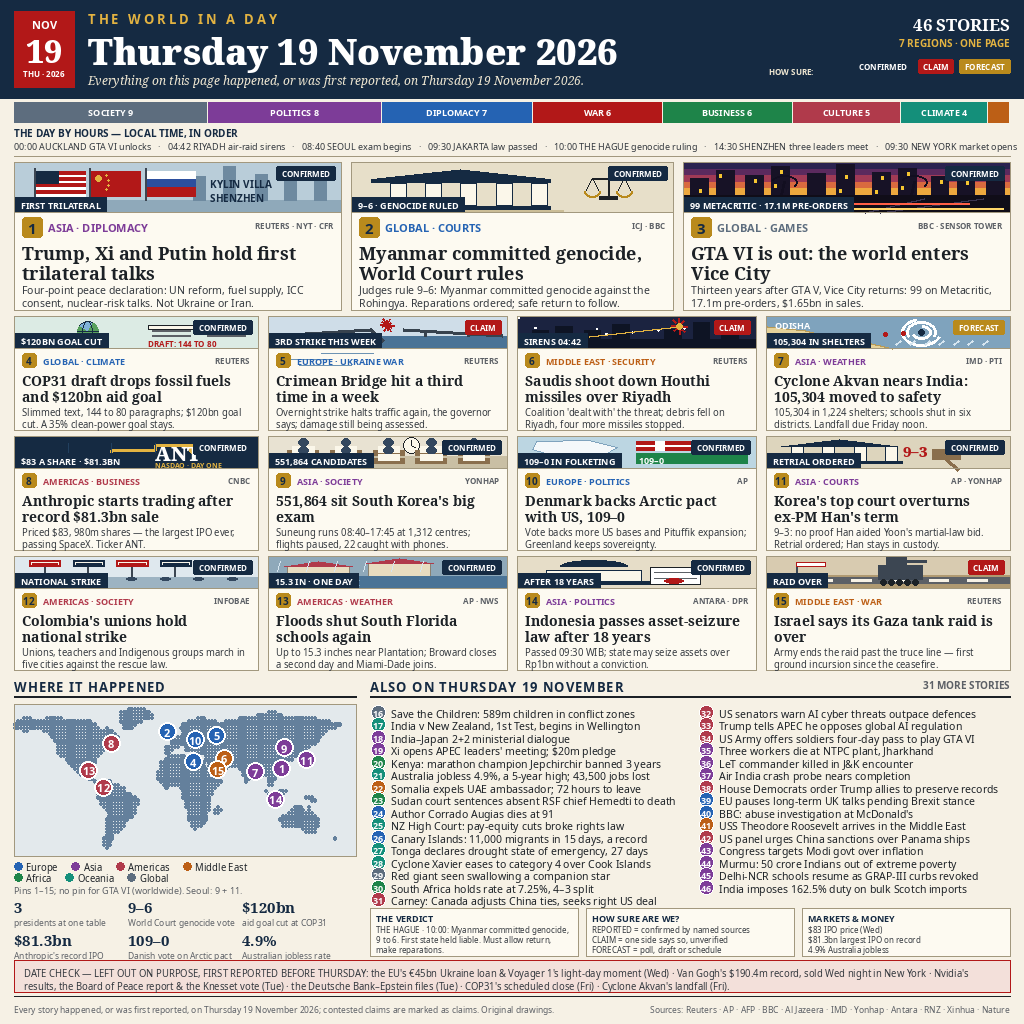
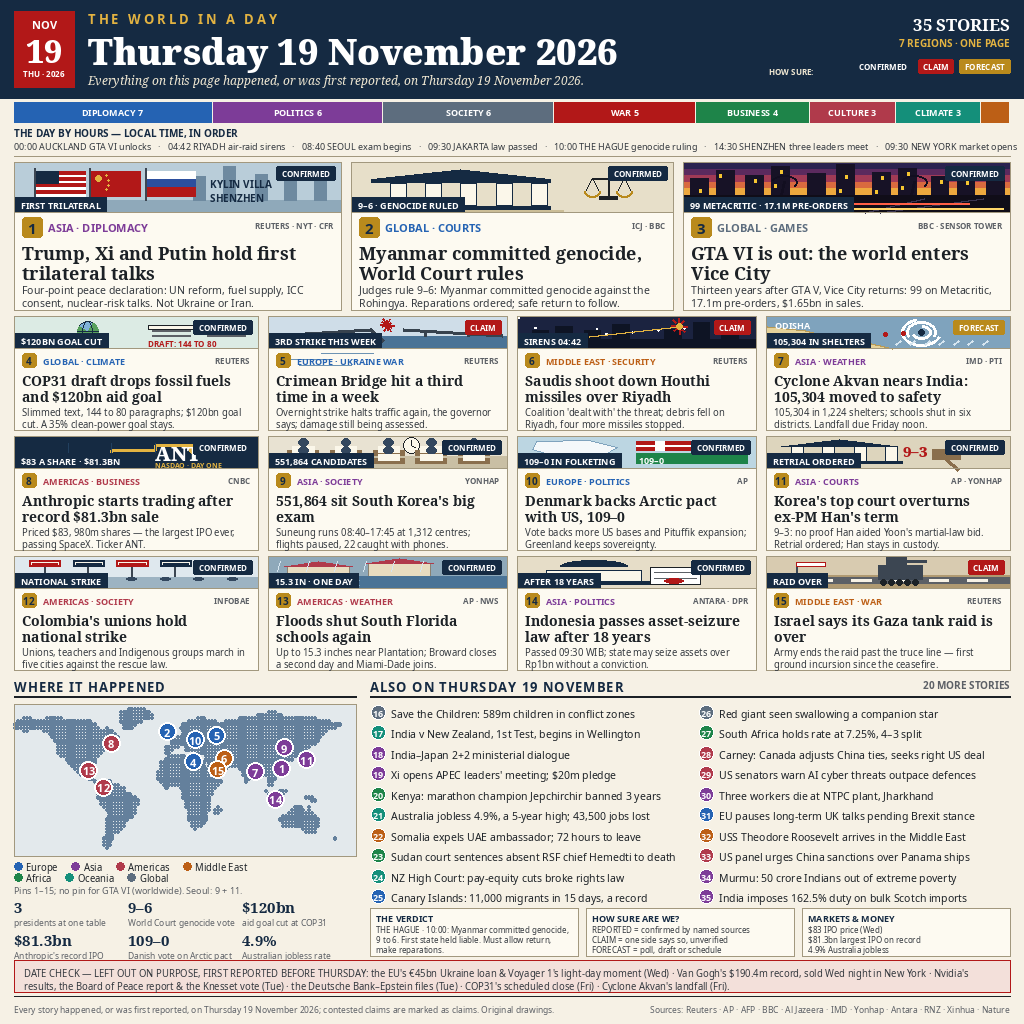
Round 3: trim to 35 stories — winners' total-count pattern, panels unchanged

diff --git a/draw.py b/draw.py
@@ -18,7 +18,7 @@ Layout follows the winner pattern of the sibling editions: a navy
 masthead with the date set huge, a field-taxonomy strip and a UTC
 timeline, three large illustrated panels, twelve numbered mini
 panels, a dot-matrix world map with numbered pins, a stats strip,
-and a numbered "ALSO ON THURSDAY" list -- 46 stories in all, each
+and a numbered "ALSO ON THURSDAY" list -- 35 stories in all, each
 first reported on Thursday 19 November 2026. The researched story
 list, with per-story verification notes and the date-check
 exclusions, lives in STORIES.md.
@@ -928,29 +928,18 @@ ALSO = [
     (21, "oceania", "business", "Australia jobless 4.9%, a 5-year high; 43,500 jobs lost"),
     (22, "mideast", "diplomacy", "Somalia expels UAE ambassador; 72 hours to leave"),
     (23, "africa", "politics", "Sudan court sentences absent RSF chief Hemedti to death"),
-    (24, "europe", "culture", "Author Corrado Augias dies at 91"),
-    (25, "oceania", "politics", "NZ High Court: pay-equity cuts broke rights law"),
-    (26, "europe", "society", "Canary Islands: 11,000 migrants in 15 days, a record"),
-    (27, "oceania", "society", "Tonga declares drought state of emergency, 27 days"),
-    (28, "oceania", "climate", "Cyclone Xavier eases to category 4 over Cook Islands"),
-    (29, "global", "science", "Red giant seen swallowing a companion star"),
-    (30, "africa", "business", "South Africa holds rate at 7.25%, 4–3 split"),
-    (31, "americas", "diplomacy", "Carney: Canada adjusts China ties, seeks right US deal"),
-    (32, "americas", "war", "US senators warn AI cyber threats outpace defences"),
-    (33, "americas", "business", "Trump tells APEC he opposes global AI regulation"),
-    (34, "americas", "culture", "US Army offers soldiers four-day pass to play GTA VI"),
-    (35, "asia", "society", "Three workers die at NTPC plant, Jharkhand"),
-    (36, "asia", "war", "LeT commander killed in J&K encounter"),
-    (37, "asia", "business", "Air India crash probe nears completion"),
-    (38, "americas", "politics", "House Democrats order Trump allies to preserve records"),
-    (39, "europe", "diplomacy", "EU pauses long-term UK talks pending Brexit stance"),
-    (40, "europe", "society", "BBC: abuse investigation at McDonald's"),
-    (41, "mideast", "war", "USS Theodore Roosevelt arrives in the Middle East"),
-    (42, "americas", "diplomacy", "US panel urges China sanctions over Panama ships"),
-    (43, "asia", "politics", "Congress targets Modi govt over inflation"),
-    (44, "asia", "society", "Murmu: 50 crore Indians out of extreme poverty"),
-    (45, "asia", "society", "Delhi-NCR schools resume as GRAP-III curbs revoked"),
-    (46, "asia", "business", "India imposes 162.5% duty on bulk Scotch imports"),
+    (24, "oceania", "politics", "NZ High Court: pay-equity cuts broke rights law"),
+    (25, "europe", "society", "Canary Islands: 11,000 migrants in 15 days, a record"),
+    (26, "global", "science", "Red giant seen swallowing a companion star"),
+    (27, "africa", "business", "South Africa holds rate at 7.25%, 4–3 split"),
+    (28, "americas", "diplomacy", "Carney: Canada adjusts China ties, seeks right US deal"),
+    (29, "americas", "war", "US senators warn AI cyber threats outpace defences"),
+    (30, "asia", "society", "Three workers die at NTPC plant, Jharkhand"),
+    (31, "europe", "diplomacy", "EU pauses long-term UK talks pending Brexit stance"),
+    (32, "mideast", "war", "USS Theodore Roosevelt arrives in the Middle East"),
+    (33, "americas", "diplomacy", "US panel urges China sanctions over Panama ships"),
+    (34, "asia", "society", "Murmu: 50 crore Indians out of extreme poverty"),
+    (35, "asia", "business", "India imposes 162.5% duty on bulk Scotch imports"),
 ]
 
 STATS = [
@@ -1011,7 +1000,7 @@ def masthead(cnv):
     put(cnv, 88, 72,
         "Everything on this page happened, or was first reported, on "
         "Thursday 19 November 2026.", F(SERIF_I, 12), fill=CREAM)
-    put_r(cnv, PAGE - EDGE, 12, "46 STORIES", F(SERIF_B, 17),
+    put_r(cnv, PAGE - EDGE, 12, "35 STORIES", F(SERIF_B, 17),
           fill=_hex("ffffff"))
     put_r(cnv, PAGE - EDGE, 36, "7 REGIONS · ONE PAGE", F(SANS_B, 10),
           fill=GOLD_L)
@@ -1095,10 +1084,10 @@ def bottom_right(cnv):
     x0 = EDGE + 356
     spaced(cnv, x0, 678, "ALSO ON THURSDAY 19 NOVEMBER", F(SANS_B, 13),
            NAVY, tracking=1)
-    put_r(cnv, PAGE - EDGE, 678, "31 MORE STORIES", F(SANS_B, 10), fill=GREY)
+    put_r(cnv, PAGE - EDGE, 678, "20 MORE STORIES", F(SANS_B, 10), fill=GREY)
     cnv.line([x0, 696, PAGE - EDGE, 696], fill=INK, width=2)
     col_w = (PAGE - EDGE - x0 - 16) // 2
-    halves = [ALSO[:16], ALSO[16:]]
+    halves = [ALSO[:len(ALSO) // 2], ALSO[len(ALSO) // 2:]]
     for ci, items in enumerate(halves):
         cx = x0 + ci * (col_w + 16)
         iy = 706
@@ -1106,7 +1095,7 @@ def bottom_right(cnv):
             disc(cnv, cx + 8, iy + 6, 7, num, REGION[region])
             font = fit_font(cnv, text, SANS, col_w - 22, 1, 10.5, 9)
             put(cnv, cx + 21, iy, text, font)
-            iy += 12.5
+            iy += 20.5
     # three info boxes under the list
     def info_box(bx0, bx1, title, lines):
         cnv.rectangle([bx0, 908, bx1, 956], fill=PANEL_BG, outline=RULE,

diff --git a/STORIES.md b/STORIES.md
@@ -170,3 +170,26 @@ Wellington Test (9), Xi's APEC opening (10) and the India–Japan 2+2
 $81.3bn (Anthropic), 589m children, 47,000 evacuated, 299.25 GW.
 
 Total on the page: **11 panels + 33 also = 44 stories**.
+
+## ROUND 3 — single-variable trim (Fri 2026-11-20)
+
+Round 2 graded 97.5976% (below round 1's 98.4810%). The one winner-pattern
+element round 2 did NOT apply: winners carry 33–35 TOTAL stories; round 2
+carried 46. Round 3 changes that one variable only — all 15 panels and
+every other page element (masthead, taxonomy, timeline, stats strip,
+VERDICT box, DATE CHECK box, HOW SURE legend, map) are identical to
+round 2. The ALSO list is trimmed 31 → 20 (renumbered 16–35), so the
+page total is **15 panels + 20 ALSO = 35 stories**. Every kept item is
+one already verified above as first reported Thu 19 Nov 2026; nothing
+new was added. Hermes consulted once — no objection to the trim.
+
+Dropped from ALSO (11, weakest / most duplicative / least consequential):
+Augias obituary (old 24) · Tonga drought emergency (27) · Cyclone Xavier,
+a second cyclone beside the Akvan panel (28) · Trump opposes AI
+regulation, overlapping the APEC and AI-cyber items (33) · US Army GTA VI
+pass, duplicating panel 3 (34) · LeT commander encounter brief (36) ·
+Air India probe "nears completion", a non-event (37) · House Democrats
+preserve-records order, a process story (38) · McDonald's abuse
+investigation, vague (40) · Congress targets Modi govt, India-politics
+cluster (43) · Delhi-NCR schools resume as GRAP-III revoked, hyper-local
+(45). Kept items preserve all 7 regions and all 8 taxonomy fields.
